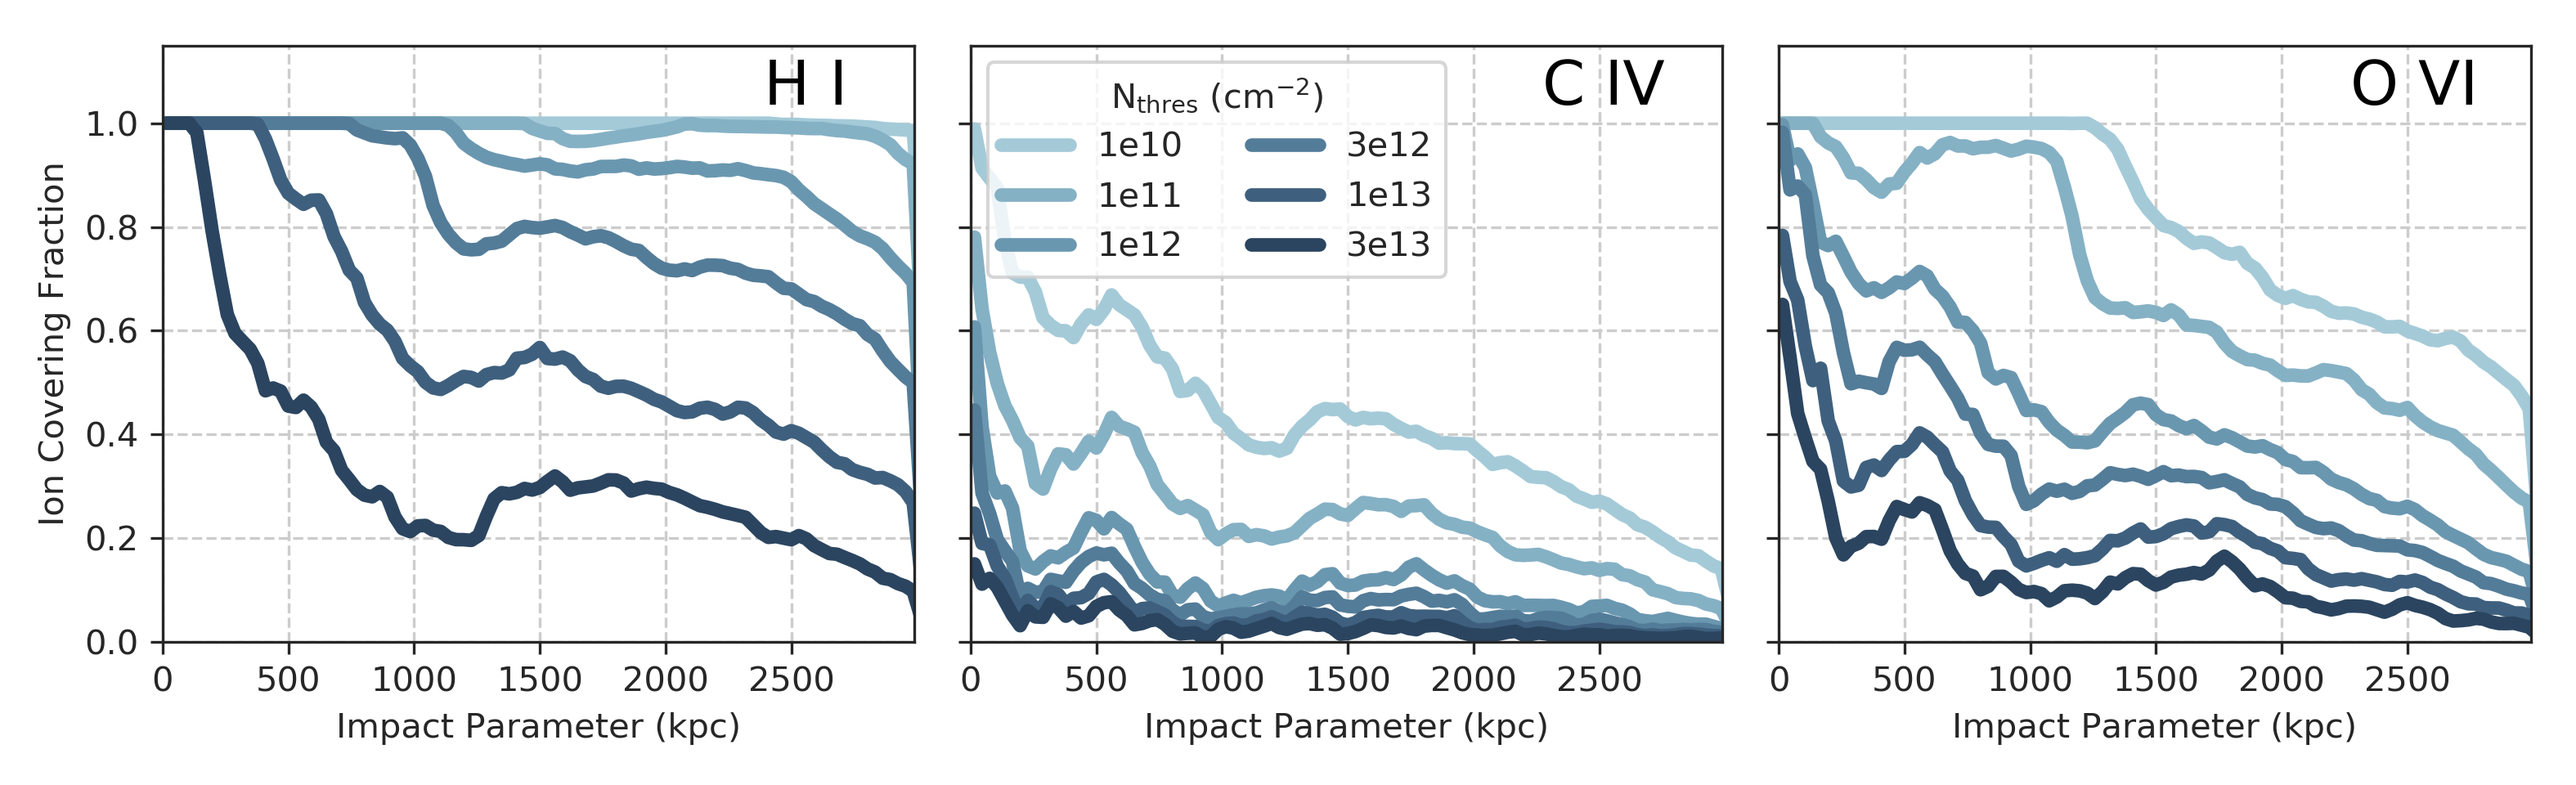
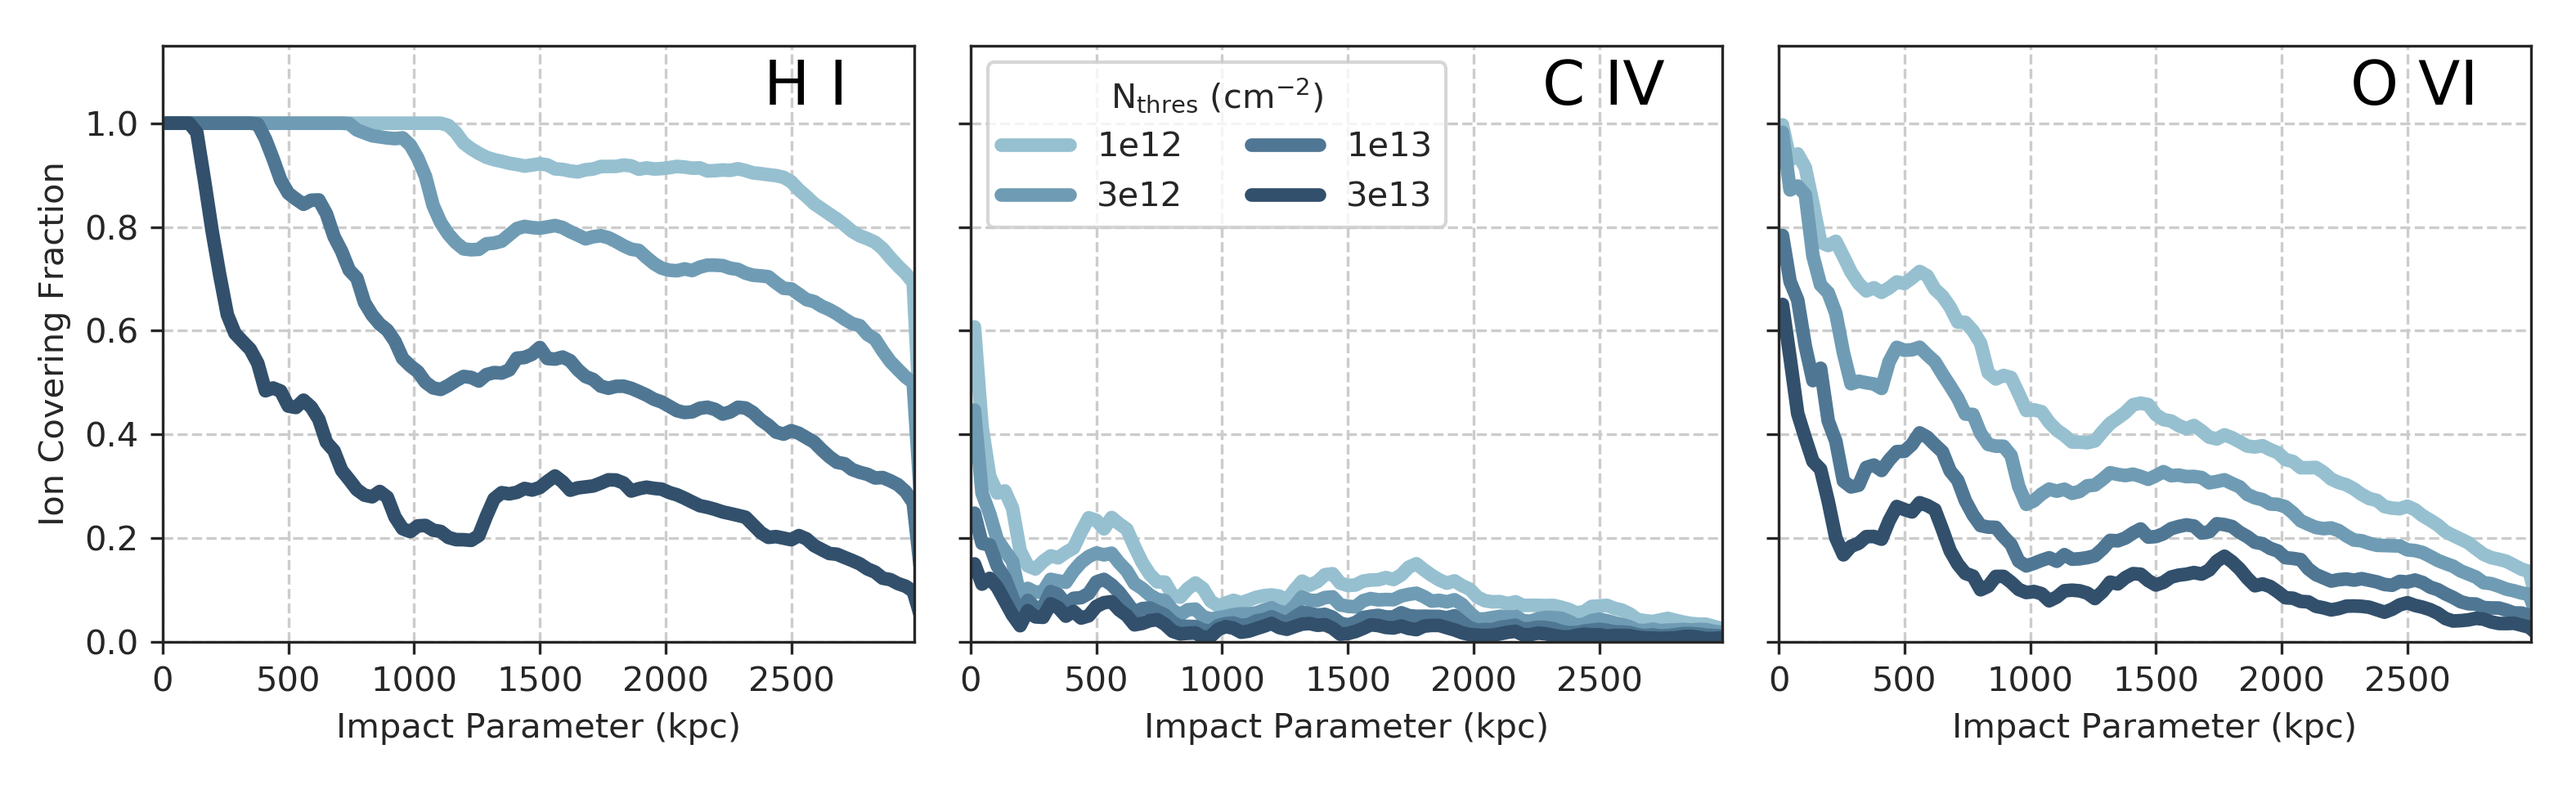
adding support for charlotte's simulations

diff --git a/plot_charlotte_column.py b/plot_charlotte_column.py
@@ -1,0 +1,76 @@
+import matplotlib
+matplotlib.use('Agg')
+import matplotlib.pyplot as plt
+
+import numpy as np
+import h5py as h5
+import sys
+from matplotlib.colors import LogNorm
+
+import seaborn as sns
+sns.set_style("white",{'font.family':'serif', 'axes.grid': True, "ytick.major.size": 0.1,
+                "ytick.minor.size": 0.05,
+                'grid.linestyle': '--'})
+
+import ion_plot_definitions as ipd
+
+def return_histogram_data(r_arr, cdens_arr, nbins = 800, rmax = 200, ylims=(1e10, 1e17)):
+    # turns the really long 1-d combined arrays of projected radius and column density                                                         
+    # into a 2d histogram. Returns xbinx, ybins, and counts.T values in 1d                                                                     
+    xbins = np.linspace(0, rmax, nbins)
+    ybins = 10**np.linspace(np.log10(ylims[0]), np.log10(ylims[1]), nbins)
+    counts, x_edge, y_edge = np.histogram2d(r_arr, cdens_arr, bins=(xbins, ybins))
+    x_bin_center = ((x_edge[1:] + x_edge[:-1]) / 2).reshape(nbins-1,1)
+    # normalize counts in x-space to remove out linear increase in counts with                                                                 
+    # radius due to circles of constant impact parameter                                                                                       
+    counts /= x_bin_center
+
+    return xbins, ybins, counts.T.ravel()
+    
+def plot_multipanel(ion_list, rmin = 0, rmax = 200, res = 1600, \
+                    nrows = 1, ncols = 3, plot_type = 'cdens', rname = 'radius', ionization_table = 'hm2012'):
+
+    fig, figax = plt.subplots(nrows = nrows, ncols =ncols , figsize = (4.2*ncols, 4*nrows),sharex = True, sharey = False)
+    for col, ion in enumerate(ion_list):
+        ax = figax[col]
+        ylims = ylim_list[col]
+        ax.set_yscale('log')
+        ax.set_ylim(ylims[0], ylims[1])
+        for model, color, linestyle in zip(model_list, color_list, linestyle_list):
+            fn = '/nobackupp2/ibutsky/data/charlotte/%s_column_data.h5'%(model)
+            r_arr, cdens_arr = ipd.load_r_cdens(fn, ion, underscore = True, space = False, rname = rname)
+
+            #im =  ipd.plot_hist2d(ax, r_arr, cdens_arr, rmax,  ylims, vmin = 1e-4, vmax_factor = 0.9,  nbins = 800, rmin = rmin)
+
+            res = 400
+            xbins, ybins, ion_counts = return_histogram_data(r_arr, cdens_arr, nbins=res, rmax=rmax, ylims = ylims)
+            ion_counts = ion_counts.reshape(res-1, res-1)
+        
+#            ax.set_yscale('log')
+            ipd.append_median_profile(ax, xbins[:-1], ybins[:-1], ion_counts.T, color = color, linestyle = linestyle, \
+                                          label = model, alpha = 0.3, xmin = 0, xmax = 200, centered = True)            
+
+        # annotate ion labels for plot
+        log_yrange = np.log10(ylims[1]) - np.log10(ylims[0])
+        ax.annotate(ion, xy=(0.75*rmax, np.power(10, np.log10(ylims[0]) + 0.85*log_yrange)), fontsize=20)
+
+        ax.set_xlabel('Impact Parameter (kpc)')
+        if col == 0:
+            ax.legend(loc = 'center right')
+            ax.set_ylabel('Ion Column Density ($\mathrm{cm}^{-2}$)')
+        fig.tight_layout()
+
+        plt.savefig('charlotte_column_density.png', dpi = 300)
+
+
+
+ion_list = ['H I', 'C IV', 'O VI']
+ylim_list = [(1e13, 1e21), (1e10, 3e15), (3e11, 3e15)]
+
+model_list = ['cosmo', 'H2']
+linestyle_list = ['dashed', 'dotted']
+palette = sns.cubehelix_palette(5, start=.5, rot=-.75, reverse = True)
+color_list = [palette[0], palette[2]]
+
+#sim = sys.argv[1]
+plot_multipanel(ion_list)

diff --git a/generate_charlotte_h5.py b/generate_charlotte_h5.py
@@ -1,0 +1,68 @@
+import matplotlib
+matplotlib.use('Agg')
+
+import yt
+#yt.enable_parallelism()
+
+import trident
+
+import numpy as np
+import h5py as h5
+
+import os, sys
+
+import romulus_analysis_helper as rom
+import ion_plot_definitions as ion_help
+
+def generate_column_data(sim, ion_list, width=400, res = 800):
+
+    field_list = ion_help.generate_ion_field_list(ion_list, 'number_density')
+    ds, center = rom.load_charlotte_sim(sim)
+    trident.add_ion_fields(ds, ions=ion_list)
+
+    fn = '/nobackupp2/ibutsky/data/charlotte/%s_column_data.h5'%(sim)
+    cdens_file = h5.File(fn)
+    axis_list = ['x', 'y', 'z']
+     
+    width = yt.YTQuantity(width, 'kpc')
+    px, py = np.mgrid[-width/2:width/2:res*1j, -width/2:width/2:res*1j]
+    radius = (px**2.0 + py**2.0)**0.5
+    
+    if "px" not in cdens_file.keys():
+        cdens_file.create_dataset("px", data=px.ravel())
+
+    if "py" not in cdens_file.keys():
+        cdens_file.create_dataset("py", data=py.ravel())
+
+    if "radius" not in cdens_file.keys():
+        cdens_file.create_dataset("radius", data = radius.ravel())
+
+    for axis in axis_list:
+        #frb = ion_help.make_projection(ds, axis, field_list, center, width, res = res)
+
+        for i, ion in enumerate(ion_list):
+            dset = "%s_%s" % (ion.replace(" ", ""), axis)
+            if dset not in cdens_file.keys():
+                print(dset)
+                sys.stdout.flush()
+                #frb = ion_help.make_projection(ds, axis, field_list[i], center, width, res = res) 
+                p = yt.ProjectionPlot(ds, axis, field_list[i], width = width, weight_field=None, center=center)
+                p.set_zlim(field_list[i], 1e13, 1e5)
+                p.save()
+                frb = p.data_source.to_frb(width, res)
+                print(frb)
+                print(frb.keys())
+                print(frb[field_list[i]])
+                cdens_file.create_dataset(dset, data=frb[field_list[i]].d.ravel())
+                cdens_file.flush()
+
+
+
+sim =  sys.argv[1]
+ion_list = ['H I', 'O VI', 'C IV']
+width = 400
+
+
+generate_column_data(sim,ion_list, width=width, res = 1600)
+
+

diff --git a/yt_functions.py b/yt_functions.py
@@ -16,27 +16,27 @@ def _metallicity2(field, data):
 def _metal_mass(field, data):
     return data[('Gas', 'metallicity')] * data[('Gas', 'Mass')].in_units('Msun')
 
-def _velocity_direction(field, data):
+def _radial_velocity(field, data):
     bv = data.get_field_parameter('bulk_velocity')
     cen = data.get_field_parameter('center')
     print(bv, cen)
 
-    x = data[('gas', 'x')] - cen[0]
-    y = data[('gas', 'y')] - cen[1]
-    z = data[('gas', 'z')] - cen[2]
+    x = (data[('gas', 'x')] - cen[0].in_units('kpc')).d
+    y = (data[('gas', 'y')] - cen[1].in_units('kpc')).d
+    z = (data[('gas', 'z')] - cen[2].in_units('kpc')).d
+    pos = np.column_stack((x,y,z))
+    pos_mag = np.linalg.norm(pos, axis = 1)
 
-    pos_mag = np.sqrt(x**2 + y**2 + z**2)
+    vx = (data[('gas', 'velocity_x')] - bv[0]).in_units('km/s').d
+    vy = (data[('gas', 'velocity_y')] - bv[1]).in_units('km/s').d
+    vz = (data[('gas', 'velocity_z')] - bv[2]).in_units('km/s').d
+    vel = np.column_stack((vx, vy, vz))
+    vel_mag = np.linalg.norm(vel, axis = 1)
 
-    vx = data[('gas', 'velocity_x')] - bv[0] 
-    vy = data[('gas', 'velocity_y')] - bv[1] 
-    vz = data[('gas', 'velocity_z')] - bv[2] 
-
-    v_mag = np.sqrt(vx**2 + vy**2 + vz**2)
+    cos_theta = np.sum(pos * vel, axis = 1) / (pos_mag * vel_mag)
     
-    sign = (vx*x + vy*y + vz*z)
-    mask = sign < 0
-    v_mag[mask] *= -1
-    return v_mag
+    return YTArray(vel_mag * cos_theta, 'km/s')
+
 
 def _CRPressure(field, data):
     crgamma = 4./3.
@@ -143,7 +143,7 @@ def add_thermal_fields(ds):
                  display_name = 'Metal Mass', particle_type = True, units =  'Msun')
     ds.add_field(('gas', 'metal_primordial_cooling_time_ratio'), function = _metal_primordial_ratio, \
                  particle_type = True)
-    ds.add_field(('gas', 'velocity_direction'), function = _velocity_direction, particle_type = True, units = 'km/s')
+    ds.add_field(('gas', 'radial_velocity'), function = _radial_velocity, particle_type = True, units = 'km/s', display_name = 'Radial Velocity')
 #    ds.add_field(('gas', 'pressure'), function=_Pressure)
 
 

diff --git a/romulus_analysis_helper.py b/romulus_analysis_helper.py
@@ -1,6 +1,7 @@
 import yt
 from yt import YTArray
 import h5py as h5
+import pynbody
 
 def load_romulus_halo_props(sim, output):
     return h5.File('/nobackup/ibutsky/data/%s_halo_data_%i'%(sim, output), 'r')
@@ -37,3 +38,22 @@ def get_romulusC_bulk_velocity(output):
         bv = YTArray([8.64556658, -44.93365813, -97.94962149], 'km/s')
     elif output == 636:
         bv = YTArray([7.56707786, -41.7900487 , -90.4190418 ], 'km/s')
+
+
+def load_charlotte_sim(sim):
+    if sim == 'cosmo':
+        fn = '/nobackupp8/trquinn/h986.cosmo50cmb.3072g/h986.cosmo50cmb.3072g1bwK/steps/h986.cosmo50cmb.3072g1bwK.00384.dir/h986.cosmo50cmb.3072g1bwK.00384'
+    elif sim == 'H2':
+        fn = '/nobackupp8/trquinn/h986.cosmo50cmb.3072g/h986.cosmo50cmb.3072g14HBWK/h986.cosmo50cmb.3072g14HBWK.00384'
+    elif sim == 'metal':
+        fn = '/nobackupp8/trquinn/h986.cosmo50cmb.3072g/h986.cosmo50cmb.3072gs1MbwK/h986.cosmo50cmb.3072gs1MbwK.00382/h986.cosmo50cmb.3072gs1MbwK.00382'
+
+    # find the center: 
+    s = pynbody.load(fn)
+    s.physical_units()
+    #gcenter = YTArray(pynbody.analysis.halo.center_of_mass(s.s), 'kpc')
+    gcenter = YTArray(pynbody.analysis.halo.shrink_sphere_center(s.s), 'kpc')
+
+    ds = yt.load(fn)
+    return ds, gcenter
+    

diff --git a/ion_plot_definitions.py b/ion_plot_definitions.py
@@ -270,8 +270,31 @@ def load_r_cdens(fname, ion, underscore = False, space = True, rname = 'radius')
     return r_arr, cdens_arr
 
 
+def load_combined_cdens(fname, ion, underscore = False, space = True, rname = 'radius', res = 800):
+    counts = np.zeros(res*res)
+    if os.path.isfile(fname):
+        frb = h5.File(fname, 'r')
+    else:
+        print("WARNING: %s is not a file"%(fname))
+        sys.stdout.flush()
+        return counts
+    if space == False:
+        ion = ion.replace(" ", "")
+    for axis in ['x', 'y', 'z']:
+            if underscore:
+                cname = "%s_%s"%(ion, axis)
+            else:
+                cname = "%s %s" % (ion, axis)
+            if cname in frb.keys():
+                counts += frb[cname]
+            else:
+                print("WARNING: %s not in %s"%(cname, fname))
+                sys.stdout.flush()
+    return counts.reshape(res, res)
+
 def make_projection(ds, axis, ion_fields, center, width, res = 800):
     p = ds.proj(ion_fields, axis, weight_field=None, center=center, method='integrate')
+    print("WARNING: NO WEIGHT_FIELD")
     return p.to_frb(width, res, center=center)
 
 

diff --git a/plot_los_velocity.py b/plot_los_velocity.py
@@ -1,0 +1,37 @@
+import yt
+yt.enable_parallelism()
+import sys
+import numpy as np
+import matplotlib.pylab as plt
+import romulus_analysis_helper as rom
+import seaborn as sns
+
+output = int(sys.argv[1])
+
+ds = yt.load('/nobackup/ibutsky/simulations/romulusC/romulusC.%06d'%(output))
+
+cen = rom.get_romulus_yt_center('romulusC', output, ds)
+
+ad = ds.sphere(cen, (3, 'Mpc'))
+
+bv = ad.quantities.bulk_velocity().in_units('km/s')
+
+
+vx = ad['velocity_x'].in_units('km/s') - bv[0]
+vy = ad['velocity_y'].in_units('km/s') - bv[1]
+vz = ad['velocity_z'].in_units('km/s') - bv[2]
+
+all_velocity = np.append(vx.d, vy.d)
+all_velocity = np.append(all_velocity, vz.d)
+
+nbins = np.linspace(-900, 900, 60)
+
+
+fig, ax = plt.subplots()
+ax.hist(all_velocity, bins = nbins, density = True, histtype='bar', alpha = 0.7, edgecolor = 'black')
+ax.set_xlabel('LOS Velocity (km/s)')
+ax.set_ylabel('Relative Frequency')
+ax.set_xlim(-900, 900)
+fig.tight_layout()
+
+plt.savefig('romulusC_%06d_los_velocity.png'%(output), dpi = 300)

diff --git a/plot_cfrac_threshold.py b/plot_cfrac_threshold.py
@@ -59,8 +59,9 @@ def plot_multipanel(output, ion_list, threshold_list, label_list = None, rmax = 
 
 
 
-threshold_list = [1e10, 1e11, 1e12, 3e12, 1e13, 3e13] 
-label_list = ['1e10', '1e11', '1e12', '3e12', '1e13', '3e13']
+threshold_list = [1e12, 3e12, 1e13, 3e13] 
+label_list = ['1e12', '3e12', '1e13', '3e13']
+
 output = int(sys.argv[1])
 ion = 'O VI'
 ion = 'H I'

diff --git a/generate_phase_plot_data.py b/generate_phase_plot_data.py
@@ -133,7 +133,7 @@ if icm_cut == 'None':
 xfield = ('gas', 'spherical_position_radius')
 xunit = 'kpc'
 xlog = False
-yfield = ('gas', 'velocity_direction')
+yfield = ('gas', 'radial_velocity')
 yunit = 'km/s'
 ylog = False
 zfield = ('gas', 'mass')
